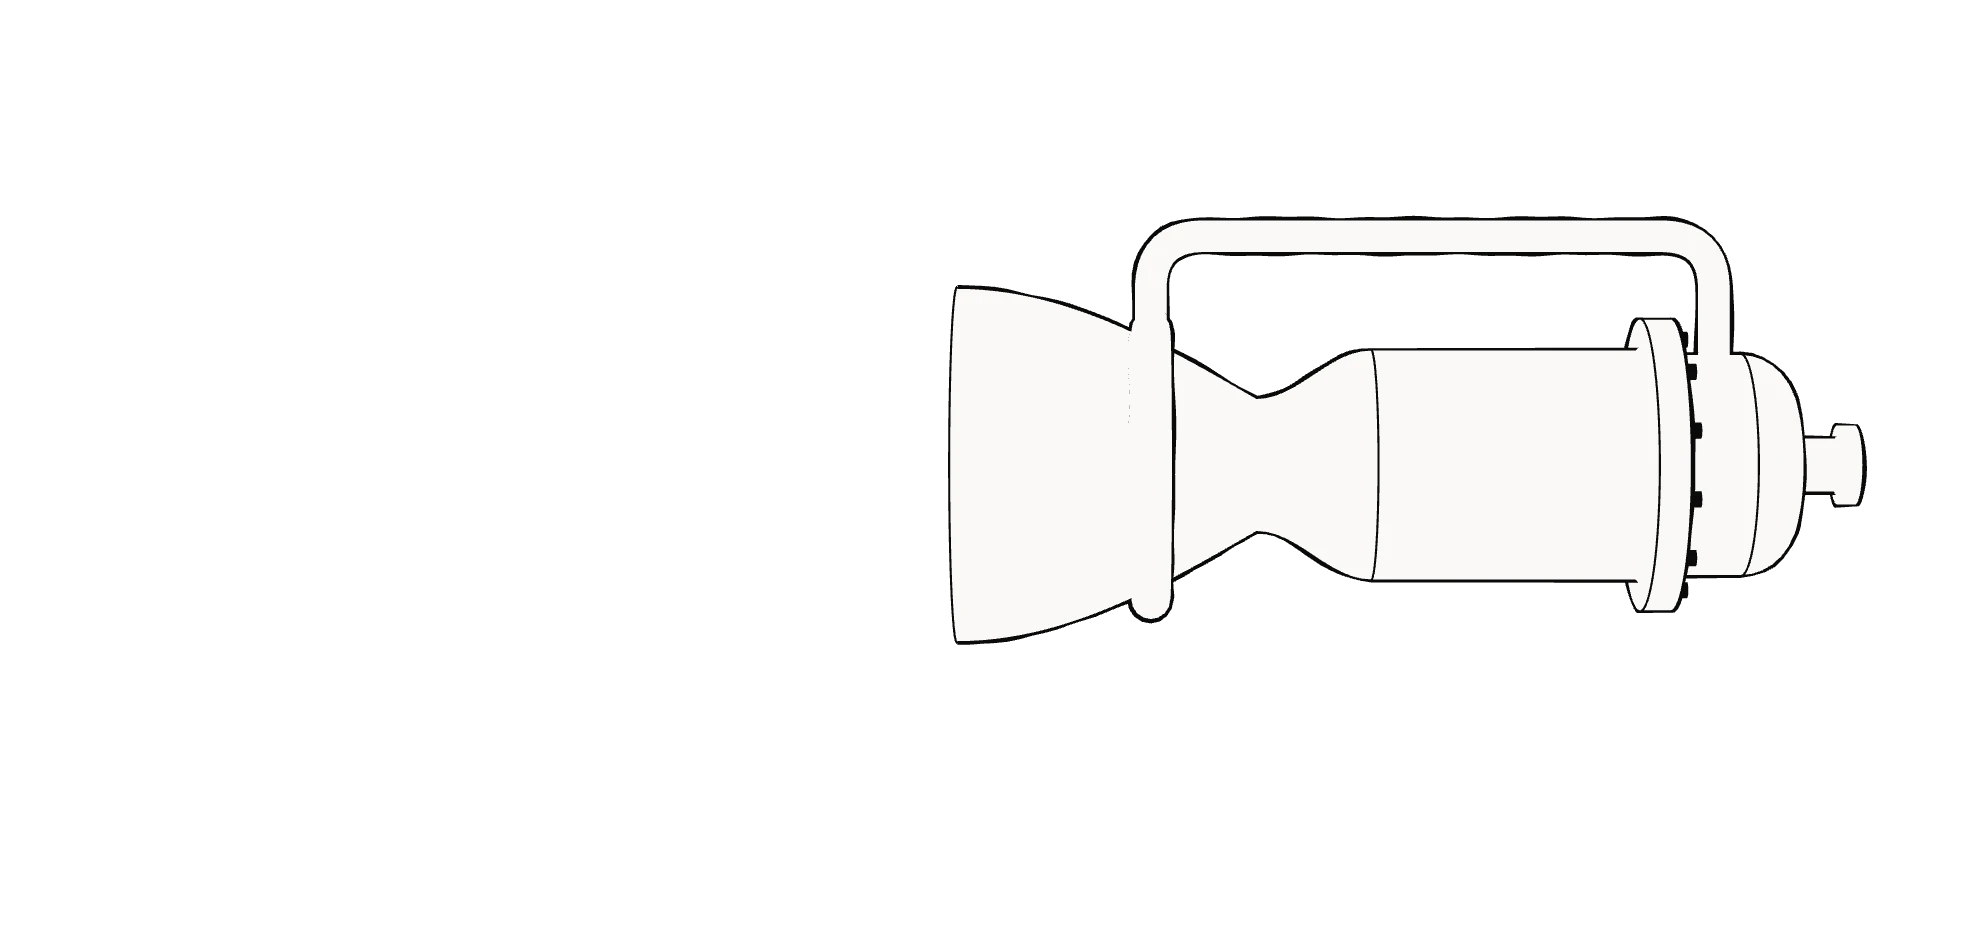
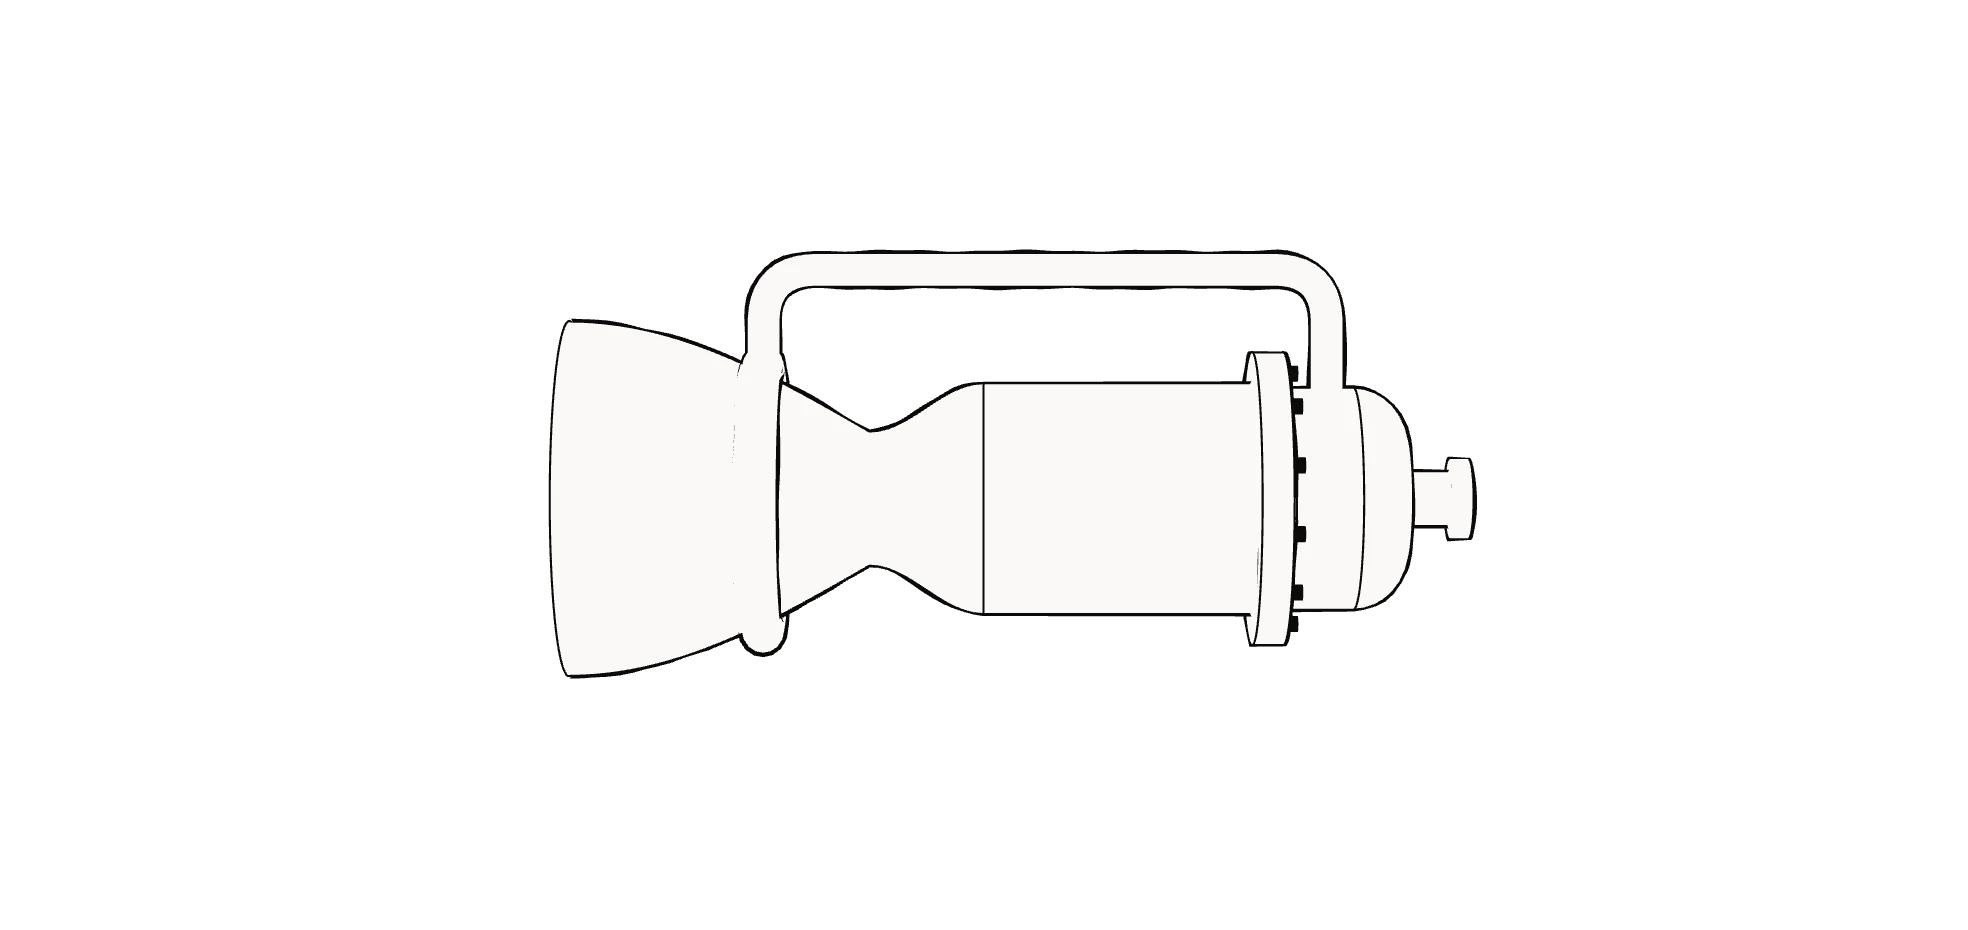
feat(projects): Efesto's hero centres its engine on orange; its /projects panel draws the engine (#382)
- The project page hero lays an engine's still on bg-accent in place of the
  texture, caption in accent-on-accent (stageGroundOf in lib/rocket-model.ts).
  Rockets keep their texture; cards keep their texture.
- The stage scene centres an engine by its own bounds with no right shift;
  Efesto's stage still is re-rendered from it.
- /projects: the panel code is now on the trunk, so an engine's panel draws
  its own engine model (Engine.engine, panelRocketOf).
- The sample page lays the home card in a flex row, so it has its home width.

diff --git a/components/project-page/hero.tsx b/components/project-page/hero.tsx
@@ -2,7 +2,7 @@ import Image from "next/image";
 import Link from "next/link";
 import type { Hero } from "@/lib/project-pages";
 import type { Project } from "@/lib/projects";
-import { stageStillOf, type OwnRocket } from "@/lib/rocket-model";
+import { stageGroundOf, stageStillOf, type OwnRocket } from "@/lib/rocket-model";
 import { CopyText, Pill } from "./parts";
 
 // Boards 23, 24 and 25 hero (1440): breadcrumb, the 128px name, intro left
@@ -44,6 +44,30 @@ function RocketStill({ own }: { own: OwnRocket | undefined }) {
   );
 }
 
+/**
+ * The visual panel. A rocket's still lies on the project's texture; an
+ * engine's still is centred on the brand orange in its place, and its
+ * caption takes the text-on-accent colour (stageGroundOf, issue #382).
+ */
+function VisualPanel({ texture, visual }: { texture: string; visual: NonNullable<Hero["visual"]> }) {
+  const ground = stageGroundOf(visual.rocket?.own);
+  return (
+    <div
+      className={`glass-project relative mt-6 h-[220px] overflow-hidden rounded-2xl md:mt-10 md:h-[620px] ${ground === "accent" ? "bg-accent" : ""}`}
+    >
+      {ground === "texture" && (
+        <Image src={texture} alt="" fill priority sizes="(min-width: 768px) 1312px, 100vw" className="object-cover" />
+      )}
+      {visual.rocket && <RocketStill own={visual.rocket.own} />}
+      <p
+        className={`pointer-events-none absolute bottom-4 left-5 z-[2] font-mono text-[10px] tracking-[0.2em] md:bottom-12 md:left-8 md:text-[11px] ${ground === "accent" ? "text-accent-on-accent" : "text-prt-text/80"}`}
+      >
+        {visual.caption}
+      </p>
+    </div>
+  );
+}
+
 export function ProjectHero({ project, hero }: { project: Pick<Project, "index" | "name" | "texture">; hero: Hero }) {
   const facts = factLayout(hero.facts);
   return (
@@ -75,22 +99,7 @@ export function ProjectHero({ project, hero }: { project: Pick<Project, "index" 
           </div>
         </div>
 
-        {hero.visual && (
-          <div className="glass-project relative mt-6 h-[220px] overflow-hidden rounded-2xl md:mt-10 md:h-[620px]">
-            <Image
-              src={project.texture}
-              alt=""
-              fill
-              priority
-              sizes="(min-width: 768px) 1312px, 100vw"
-              className="object-cover"
-            />
-            {hero.visual.rocket && <RocketStill own={hero.visual.rocket.own} />}
-            <p className="pointer-events-none absolute bottom-4 left-5 z-[2] font-mono text-[10px] tracking-[0.2em] text-prt-text/80 md:bottom-12 md:left-8 md:text-[11px]">
-              {hero.visual.caption}
-            </p>
-          </div>
-        )}
+        {hero.visual && <VisualPanel texture={project.texture} visual={hero.visual} />}
 
         <dl className={`mt-6 grid grid-cols-3 md:mt-10 ${facts.grid} md:border-t md:border-hairline md:pt-6`}>
           {hero.facts.map((f) => (

diff --git a/components/landing/cavour-stage-3d.tsx b/components/landing/cavour-stage-3d.tsx
@@ -2,9 +2,9 @@
 
 import { Suspense, useEffect, useMemo, useRef } from "react";
 import { Canvas, useThree } from "@react-three/fiber";
-import { Environment } from "@react-three/drei";
+import { Center, Environment } from "@react-three/drei";
 import * as THREE from "three";
-import type { RocketModel } from "@/lib/rocket-model";
+import { isEngineModel, type RocketModel } from "@/lib/rocket-model";
 import { builtRockets } from "./rocket-built";
 import type { WeatherUniforms } from "./hero-weathering";
 import { CAVOUR_HDRI } from "./cavour-assets";
@@ -60,8 +60,12 @@ function Vehicle({ model }: { model: RocketModel }) {
   );
 }
 
-/** Keeps the rocket at the board's share of the panel width as the panel resizes. */
-function FitCamera() {
+/**
+ * Keeps the rocket at the board's share of the panel width as the panel
+ * resizes. An engine is not parked: it sits centred (issue #382), so its
+ * frame takes no shift.
+ */
+function FitCamera({ shift }: { shift: number }) {
   const camera = useThree((s) => s.camera) as THREE.PerspectiveCamera;
   const aspect = useThree((s) => s.size.width / s.size.height);
   useEffect(() => {
@@ -71,9 +75,9 @@ function FitCamera() {
     // filmOffset moves the frame by filmOffset / filmWidth of the near plane's
     // width per unit of its tangent span; negative moves the subject right.
     const span = 2 * Math.tan(THREE.MathUtils.degToRad(FOV / 2)) * aspect;
-    camera.filmOffset = -RIGHT_SHIFT * span * camera.getFilmWidth();
+    camera.filmOffset = -shift * span * camera.getFilmWidth();
     camera.updateProjectionMatrix();
-  }, [camera, aspect]);
+  }, [camera, aspect, shift]);
   return null;
 }
 
@@ -87,6 +91,7 @@ type Props = {
 };
 
 export default function CavourStage3D({ model, onReady, onFailed }: Props) {
+  const engine = isEngineModel(model);
   return (
     <Canvas
       frameloop="demand"
@@ -100,11 +105,19 @@ export default function CavourStage3D({ model, onReady, onFailed }: Props) {
           value the hero and the project cards use, so the vehicle reads
           the same on every page. */}
       <directionalLight position={[10, 3, -8]} intensity={0.6} color="#FFD2B0" />
-      <FitCamera />
+      <FitCamera shift={engine ? 0 : RIGHT_SHIFT} />
       <SceneErrorBoundary onError={onFailed}>
         <Suspense fallback={null}>
           <Environment files={CAVOUR_HDRI} environmentIntensity={0.45} environmentRotation={[-Math.PI / 2, 0, 0]} />
-          <Vehicle model={model} />
+          {/* An engine's own bounds, not the rocket's length, place it: its
+              middle goes to the panel's middle. */}
+          {engine ? (
+            <Center>
+              <Vehicle model={model} />
+            </Center>
+          ) : (
+            <Vehicle model={model} />
+          )}
           <WarmUp onWarm={onReady} />
         </Suspense>
       </SceneErrorBoundary>

diff --git a/lib/projects.ts b/lib/projects.ts
@@ -3,7 +3,7 @@
 // (lib/project-content/record.ts, issue #295), and the header counts are
 // derived from their launches.
 
-import { rocketModelOf, type OwnRocketModel, type RocketModel } from "@/lib/rocket-model";
+import { rocketModelOf, type OwnEngineModel, type OwnRocketModel, type RocketModel } from "@/lib/rocket-model";
 
 /** Text with an optional shorter phone version (board 22m). */
 export type Copy = { text: string; phone?: string };
@@ -67,6 +67,8 @@ export type Vehicle = ProjectBase & {
 /** An engine in development: work lines and a milestone note in place of a launch log. */
 export type Engine = ProjectBase & {
   kind: "engine";
+  /** The engine its panel draws (issue #382); with none, the panel is the texture only. */
+  engine?: OwnEngineModel;
   workLines: readonly WorkLine[];
   milestone: string;
 };
@@ -87,12 +89,13 @@ export function statusOf(project: Project): ProjectStatus {
 }
 
 /**
- * The rocket a /projects panel draws (issue #381): a rocket draws its own
- * model, or the placeholder when it has none; an engine draws no rocket, so
- * its panel is the texture only.
+ * The model a /projects panel draws (issue #381): a rocket draws its own
+ * model, or the placeholder when it has none. An engine never draws a rocket:
+ * it draws its own engine model (issue #382), and with none its panel is the
+ * texture only.
  */
 export function panelRocketOf(project: Project): RocketModel | null {
-  return project.kind === "vehicle" ? rocketModelOf(project.rocket) : null;
+  return project.kind === "vehicle" ? rocketModelOf(project.rocket) : (project.engine ?? null);
 }
 
 export type Stat = { value: string; label: string };

diff --git a/lib/rocket-model.test.ts b/lib/rocket-model.test.ts
@@ -6,7 +6,7 @@ import { PLACEHOLDER_CARD_POSTER, PLACEHOLDER_STAGE_POSTER } from "@/components/
 import { VES_CARD_POSTER, VES_STAGE_POSTER } from "@/components/landing/ves-assets";
 import { importedRecords } from "@/lib/project-content/import";
 import { homeCardOf, pageRecordOf } from "@/lib/project-content/record";
-import { cardPosterOf, rocketModelOf, stageStillOf } from "./rocket-model";
+import { cardPosterOf, rocketModelOf, stageGroundOf, stageStillOf } from "./rocket-model";
 
 // Which rocket a card stage and a page's rocket slot draw (issue #296).
 
@@ -38,6 +38,11 @@ test("Cavour and VES draw their own rockets on their cards and pages; Efesto dra
   const engineStill = stageStillOf(pageRecord("efesto").hero.visual?.rocket?.own);
   assert.equal(engineStill.src, EFESTO_STAGE_POSTER);
   assert.notEqual(engineStill.alt, "");
+  // Its page panel lays the engine on the brand orange; the rockets keep their texture.
+  assert.equal(stageGroundOf(pageRecord("efesto").hero.visual?.rocket?.own), "accent");
+  assert.equal(stageGroundOf(pageRecord("cavour").hero.visual?.rocket?.own), "texture");
+  assert.equal(stageGroundOf(pageRecord("ves").hero.visual?.rocket?.own), "texture");
+  assert.equal(stageGroundOf(undefined), "texture");
 
   // VES Mark I (issue #361): its home card and its page slot draw the VES model and its stills.
   const card = rocketModelOf(homeCardOf(record("ves"), 1).rocket);

diff --git a/lib/rocket-model.ts b/lib/rocket-model.ts
@@ -30,6 +30,10 @@ export type OwnModel = OwnRocketModel | OwnEngineModel;
 /** What a model slot draws: a project's own model, or the shared placeholder. */
 export type RocketModel = OwnModel | "placeholder";
 
+export function isEngineModel(model: RocketModel | undefined): model is OwnEngineModel {
+  return (ownEngineModels as readonly string[]).includes(model ?? "");
+}
+
 /** The model to draw for a project: its own when it has one, else the placeholder. */
 export function rocketModelOf(own: OwnModel | undefined): RocketModel {
   return own ?? "placeholder";
@@ -62,4 +66,15 @@ export type OwnRocket = { model: OwnModel; alt: string };
 export function stageStillOf(own: OwnRocket | undefined): { src: string; alt: string } {
   const model = rocketModelOf(own?.model);
   return { src: posters[model].stage, alt: own?.alt ?? "" };
+}
+
+/**
+ * What a project page's panel lays its still on. A rocket parks on the
+ * project's texture; an engine sits centred on the brand orange, in place of
+ * its texture (issue #382, Owner decision). Cards keep their texture either way.
+ */
+export type StageGround = "texture" | "accent";
+
+export function stageGroundOf(own: OwnRocket | undefined): StageGround {
+  return isEngineModel(own?.model) ? "accent" : "texture";
 }

diff --git a/lib/project-content/record.ts b/lib/project-content/record.ts
@@ -14,7 +14,7 @@ import type {
 } from "@/lib/project-pages/types";
 import { type Award, type Copy, type Launch, type Project, type ProjectPage, type Spec, type WorkLine } from "@/lib/projects";
 import { publicVersion, type ContentItem } from "@/lib/content/versioned";
-import type { OwnModel, OwnRocketModel } from "@/lib/rocket-model";
+import { isEngineModel, type OwnModel, type OwnRocketModel } from "@/lib/rocket-model";
 
 // One project as the content store keeps it (issue #295): everything the
 // project page, its /projects entry and its home card show, in one record
@@ -278,7 +278,14 @@ export function listingOf(record: ProjectRecord, position: number): Project {
     texture: record.texture,
   };
   if (record.kind === "engine") {
-    return { ...base, kind: "engine", workLines: record.listing.workLines, milestone: record.listing.milestone };
+    const { rocket } = record.card;
+    return {
+      ...base,
+      kind: "engine",
+      ...(isEngineModel(rocket) && { engine: rocket }),
+      workLines: record.listing.workLines,
+      milestone: record.listing.milestone,
+    };
   }
   return {
     ...base,

diff --git a/lib/projects.test.ts b/lib/projects.test.ts
@@ -11,10 +11,11 @@ const listing = (slug: string): Project => {
   return listingOf(importedRecords[position], position);
 };
 
-test("an engine's /projects panel draws no stage: no rocket and no placeholder", () => {
+test("an engine's /projects panel draws its own engine (issue #382), and with none no stage at all", () => {
   const efesto = listing("efesto");
-  assert.equal(efesto.kind, "engine");
-  assert.equal(panelRocketOf(efesto), null);
+  assert.ok(efesto.kind === "engine");
+  assert.equal(panelRocketOf(efesto), "efesto");
+  assert.equal(panelRocketOf({ ...efesto, engine: undefined }), null);
 });
 
 test("a rocket's /projects panel draws its own model, or the placeholder when it has none", () => {

diff --git a/components/projects/project-card.tsx b/components/projects/project-card.tsx
@@ -35,8 +35,9 @@ function StatusPill({ status }: { status: ProjectStatus }) {
 /**
  * The texture panel. A rocket project shows its live 3D rocket crossing the
  * panel corner to corner, the model its home card draws (a rocket with no
- * model of its own draws the placeholder); an engine's panel is the texture
- * only (issue #381). The card rocket stands nearly upright in its own
+ * model of its own draws the placeholder); an engine draws its own engine
+ * model the same way (issue #382), or with none the texture only. The card
+ * rocket stands nearly upright in its own
  * canvas, so the canvas is turned to lay the vehicle along the panel's
  * diagonal, nose top right.
  */

diff --git a/app/preview/efesto-engine/page.tsx b/app/preview/efesto-engine/page.tsx
@@ -32,7 +32,8 @@ export default function EfestoEnginePreview() {
         <main className="pb-section">
           <ProjectHero project={{ index: card.num, name: card.name, texture: card.texture }} hero={pageRecordOf(record).hero} />
           <section className="px-5 pt-section md:px-16">
-            <div className="mx-auto grid max-w-[1312px] md:gap-8 lg:grid-cols-3 lg:gap-4">
+            {/* A flex row, as the home row is: the card's width is a share of the row's. */}
+            <div className="mx-auto flex max-w-[1312px] gap-4">
               <HomeProjectCard project={card} />
             </div>
           </section>

diff --git a/design-system-manifest.md b/design-system-manifest.md
@@ -410,8 +410,8 @@ Owner decision that overrides boards 22 and 22m there). The cards are listed new
 the same rule as the home row (`listingsNewestFirst`, which sorts with `newestFirst`). A rocket
 project's panel draws its rocket live on the panel's diagonal (`RocketCardStage` with the model
 `panelRocketOf` gives): its own model, or the placeholder when it has none. An engine (Efesto)
-draws no rocket and no placeholder: its panel is the texture only, and the `Engine` shape
-carries no rocket. Every fact comes from the projects' published records
+never draws a rocket or the placeholder: its panel draws its own engine model the same way, on
+its texture (issue #382), and an engine with no model of its own shows the texture only. Every fact comes from the projects' published records
 (`lib/project-content/`, issue #295), and the header counts their launches. Every published
 project has its own page (issue #301), so every card is clickable: the name is the link, and its
 `::after` covers the card, so the whole card is the target. The card takes `.glass-linked`, and
@@ -431,7 +431,9 @@ page is the layout reference.
   always run 01, 02, 03 ... (`sectionsOf` in `lib/project-pages/index.ts`).
 - The hero shows the visual panel on the project's texture only when the record has a visual:
   Cavour's still of the parked rocket (Stack above, not 3D), VES's still of Mark I with its
-  "VES MARK I" caption and Mark I's key facts, Efesto's still of its outline engine. Up to six key
+  "VES MARK I" caption and Mark I's key facts, Efesto's still of its outline engine. An engine's
+  still sits centred on `bg-accent` in place of the texture, its caption in `accent-on-accent`
+  (`stageGroundOf`, Owner decision, issue #382); its cards keep the texture. Up to six key
   facts. A set with a value longer than ten characters is set at 17px on phones (else 20px),
   and on desktop sits 3 x 2 below xl (1280) so no value runs into the next (`factLayout` in
   `hero.tsx`); a shorter set is one row of six.
